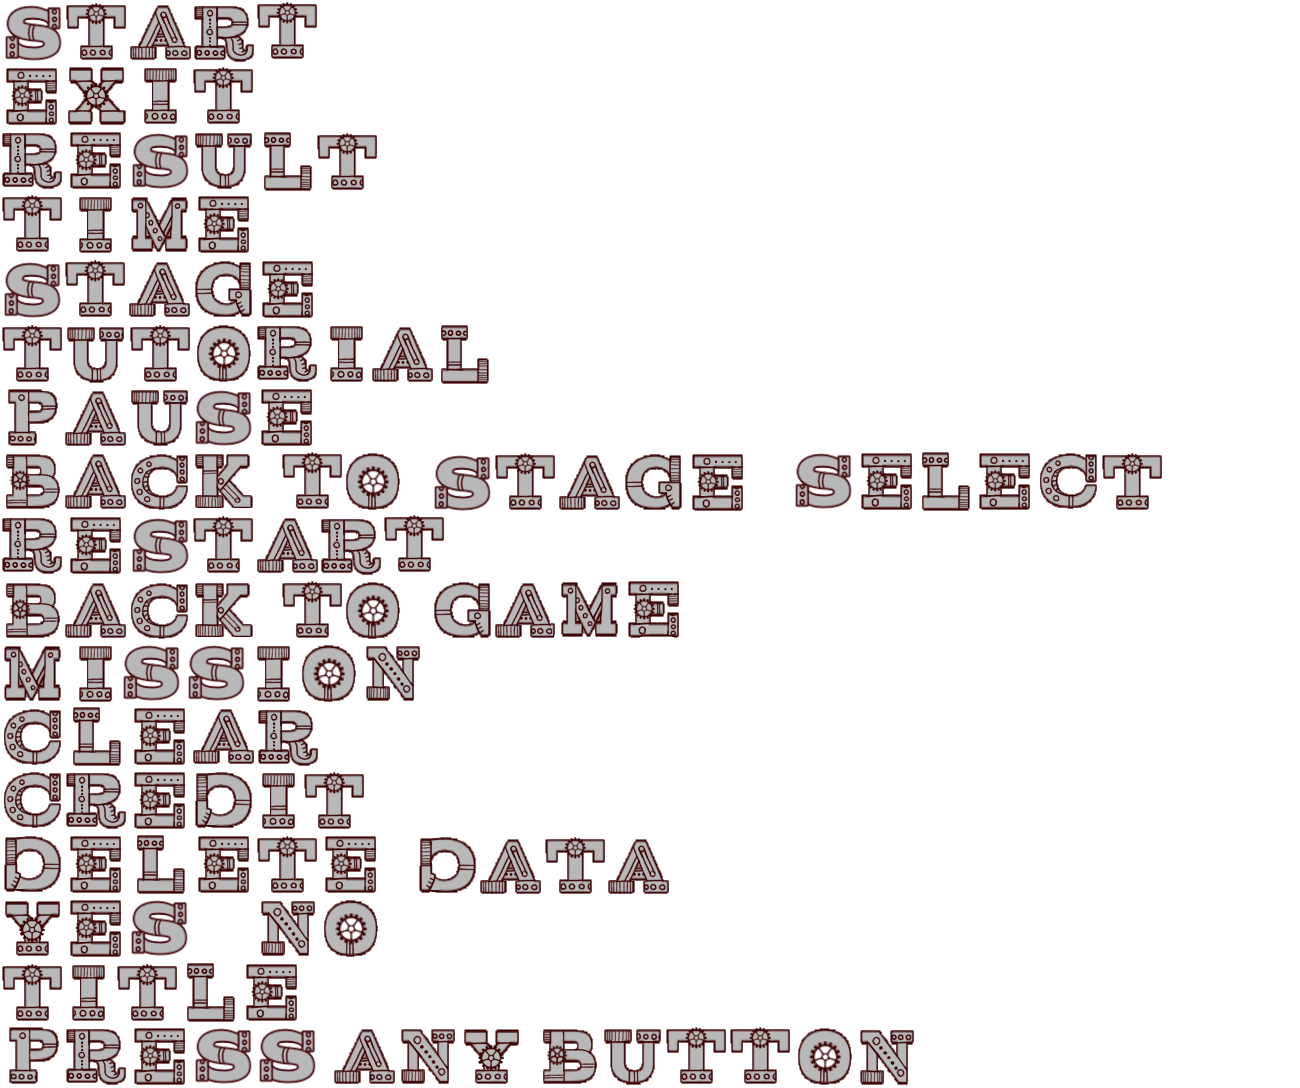
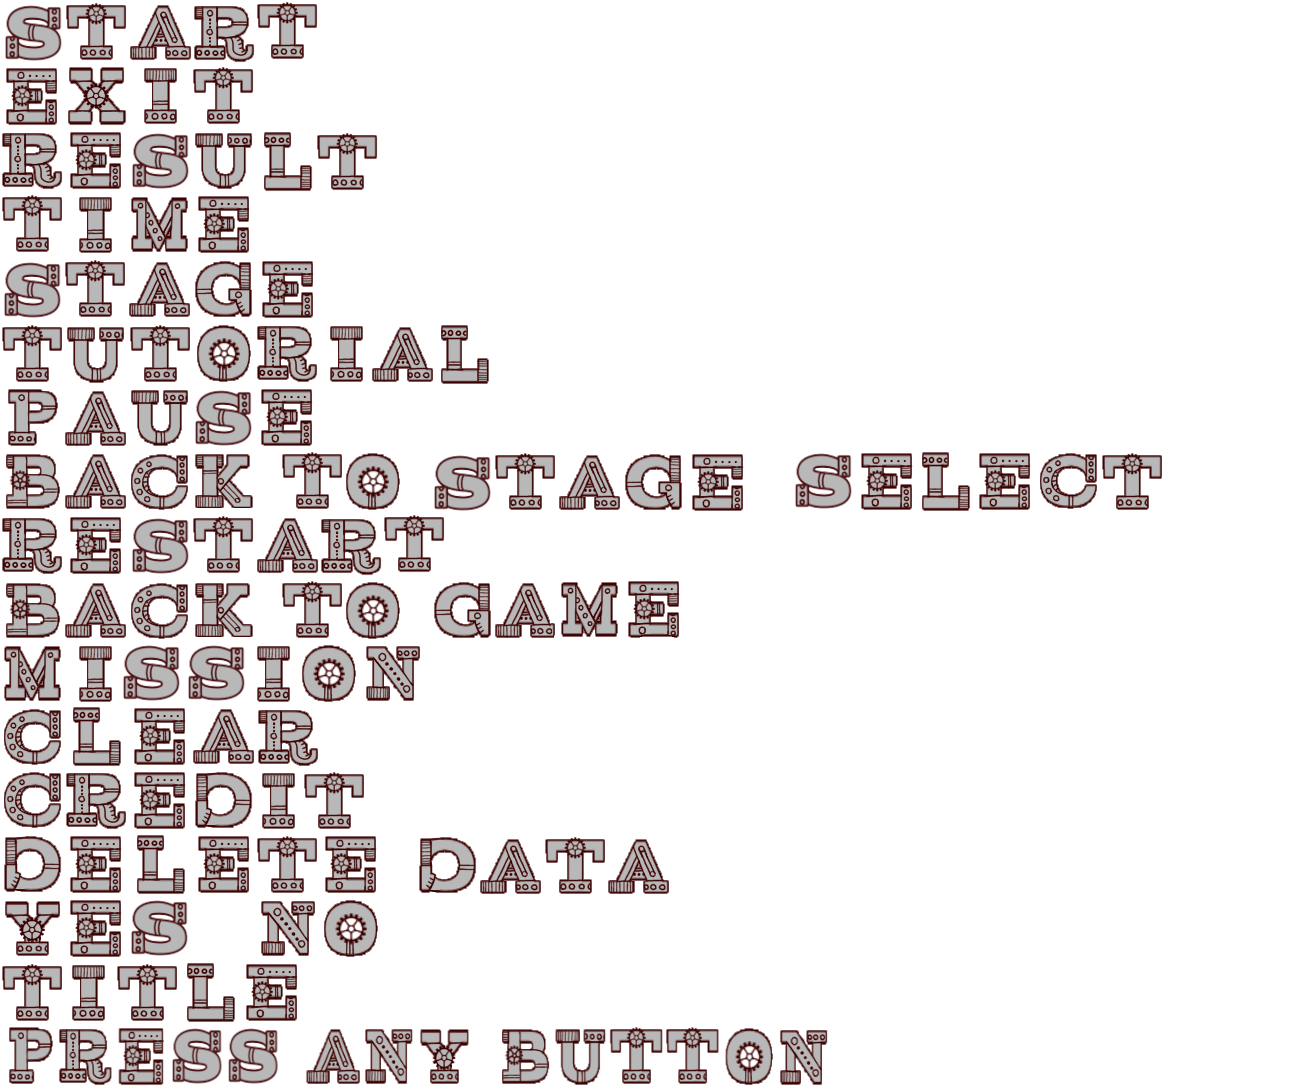
フォントサイズ修正

Changed region(s): [[0.0, 0.9375, 0.7077, 1.0]]

diff --git a/trickleLibrary/OG2D/src/Task/Task_Title.cpp b/trickleLibrary/OG2D/src/Task/Task_Title.cpp
@@ -700,9 +700,9 @@ void Title::Render2D()
 	//PressAnyButton
 	{
 		if (this->mode == from6) {
-			Box2D draw(this->startPos.x - 275, this->startPos.y + 60, 64.f * 15, 64.f);
+			Box2D draw(this->startPos.x - 275, this->startPos.y + 60, 835.f, 64.f);
 			draw.OffsetSize();
-			Box2D src(0.f, 64.f * 16, 64.f * 15, 64.f);
+			Box2D src(0.f, 64.f * 16, 835.f, 64.f);
 			src.OffsetSize();
 			rm->GetTextureData(std::string("fontui"))->Draw(draw, src, Color(1.0f, 1.0f, 1.0f, this->press_a));
 		}
